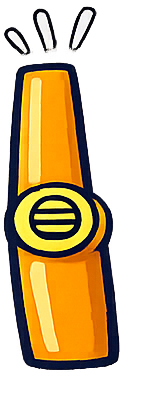
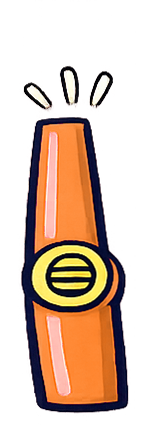
auto-commit for de3b99ca-0ea0-425a-a354-145b8a8ef105

diff --git a/frontend/src/pages/SimonSaysPage.js b/frontend/src/pages/SimonSaysPage.js
@@ -42,23 +42,36 @@ function SimonSaysPage({ score, setScore, gameStats, setGameStats, resetGame }) 
 
   const timeoutRef = useRef(null);
   const bellsRowRef = useRef(null); // Imperative handle to flash kazoos instantly
+  const stewFrameRefs = useRef([null, null, null, null]); // 4 stew frame <img> elements
   const stewTimerRef = useRef(null);
-  const [stewFrame, setStewFrame] = useState(0); // 0=neutral, 1-3=playing
   const currentPattern = PATTERNS[level] || PATTERNS[8];
 
-  // Cycles Stew through frames 1→2→3→0(neutral) over ~280ms
-  // Called each time a kazoo is played (by Stu OR by the kid).
-  const cycleStew = useCallback(() => {
-    if (stewTimerRef.current) clearTimeout(stewTimerRef.current);
-    setStewFrame(1);
-    stewTimerRef.current = setTimeout(() => {
-      setStewFrame(2);
-      stewTimerRef.current = setTimeout(() => {
-        setStewFrame(3);
-        stewTimerRef.current = setTimeout(() => setStewFrame(0), 90);
-      }, 90);
-    }, 90);
+  // Cycles Stew through frames 1→2→3→0(neutral) using direct DOM swaps so it
+  // works even when fired rapidly during Stu's demo phase. All 4 frames are
+  // mounted simultaneously; we just toggle which one is `display: block`.
+  const showStewFrame = useCallback((i) => {
+    stewFrameRefs.current.forEach((el, idx) => {
+      if (el) el.style.display = idx === i ? 'block' : 'none';
+    });
   }, []);
+
+  const cycleStew = useCallback(() => {
+    if (stewTimerRef.current) {
+      clearTimeout(stewTimerRef.current);
+      stewTimerRef.current = null;
+    }
+    showStewFrame(1);
+    stewTimerRef.current = setTimeout(() => {
+      showStewFrame(2);
+      stewTimerRef.current = setTimeout(() => {
+        showStewFrame(3);
+        stewTimerRef.current = setTimeout(() => {
+          showStewFrame(0); // back to neutral
+          stewTimerRef.current = null;
+        }, 110);
+      }, 110);
+    }, 110);
+  }, [showStewFrame]);
 
   // Clean up timeouts
   useEffect(() => {
@@ -326,18 +339,25 @@ function SimonSaysPage({ score, setScore, gameStats, setGameStats, resetGame }) 
           </div>
         )}
 
-        {/* Stew - cycles through frames each time a kazoo plays. AnimatePresence
-            on key={stewFrame} would be heavy; just swap the src directly. */}
-        <motion.img
+        {/* Stew - cycles through frames each time a kazoo plays.
+            All 4 frames are mounted at once; we toggle `display` directly via
+            refs so swaps fire instantly without React render delay. */}
+        <div
           data-testid="stew-mascot"
-          src={STEW_FRAMES[stewFrame]}
-          alt="Stew the parrot playing kazoo"
-          className="w-32 h-32 md:w-44 md:h-44 object-contain drop-shadow-xl mb-2"
-          animate={{ y: gameState === 'showing' ? [0, -4, 0] : 0 }}
-          transition={{ repeat: gameState === 'showing' ? Infinity : 0, duration: 0.6 }}
-        />
-
-        {/* Kazoos */}
+          className="relative w-32 h-32 md:w-44 md:h-44 mb-2"
+        >
+          {STEW_FRAMES.map((src, idx) => (
+            <img
+              key={idx}
+              ref={(el) => { stewFrameRefs.current[idx] = el; }}
+              src={src}
+              alt={idx === 0 ? 'Stew' : ''}
+              draggable={false}
+              className="absolute inset-0 w-full h-full object-contain drop-shadow-xl pointer-events-none"
+              style={{ display: idx === 0 ? 'block' : 'none' }}
+            />
+          ))}
+        </div>
         <motion.div
           className="game-board p-4 md:p-8"
           initial={{ y: 30, opacity: 0 }}

diff --git a/frontend/src/components/Kazoos.js b/frontend/src/components/Kazoos.js
@@ -7,11 +7,10 @@ export const KAZOOS = [
   { note: 'D',      solfege: 'Re', color: '#FF9500', image1: 'assets/kazoos/kazoo-D-idle.png',     image2: 'assets/kazoos/kazoo-D-pressed.png',     key: '2' },
   { note: 'E',      solfege: 'Mi', color: '#FFCC00', image1: 'assets/kazoos/kazoo-E-idle.png',     image2: 'assets/kazoos/kazoo-E-pressed.png',     key: '3' },
   { note: 'F',      solfege: 'Fa', color: '#4CD964', image1: 'assets/kazoos/kazoo-F-idle.png',     image2: 'assets/kazoos/kazoo-F-pressed.png',     key: '4' },
-  { note: 'G',      solfege: 'So', color: '#34A853', image1: 'assets/kazoos/kazoo-G-idle.png',     image2: 'assets/kazoos/kazoo-G-pressed.png',     key: '5' },
-  { note: 'A',      solfege: 'La', color: '#4285F4', image1: 'assets/kazoos/kazoo-A-idle.png',     image2: 'assets/kazoos/kazoo-A-pressed.png',     key: '6' },
-  { note: 'B',      solfege: 'Ti', color: '#AF52DE', image1: 'assets/kazoos/kazoo-B-idle.png',     image2: 'assets/kazoos/kazoo-B-pressed.png',     key: '7' },
-  // High C - sprite has cut-off pressed art, so we reuse the idle for both states (no swap on press)
-  { note: 'High C', solfege: 'Do', color: '#FF2D55', image1: 'assets/kazoos/kazoo-HighC-idle.png', image2: 'assets/kazoos/kazoo-HighC-idle.png',    key: '8' }
+  { note: 'G',      solfege: 'So', color: '#4285F4', image1: 'assets/kazoos/kazoo-G-idle.png',     image2: 'assets/kazoos/kazoo-G-pressed.png',     key: '5' },
+  { note: 'A',      solfege: 'La', color: '#AF52DE', image1: 'assets/kazoos/kazoo-A-idle.png',     image2: 'assets/kazoos/kazoo-A-pressed.png',     key: '6' },
+  { note: 'B',      solfege: 'Ti', color: '#FF2D85', image1: 'assets/kazoos/kazoo-B-idle.png',     image2: 'assets/kazoos/kazoo-B-pressed.png',     key: '7' },
+  { note: 'High C', solfege: 'Do', color: '#C71F1F', image1: 'assets/kazoos/kazoo-HighC-idle.png', image2: 'assets/kazoos/kazoo-HighC-pressed.png', key: '8' }
 ];
 
 const KEY_TO_NOTE = {
